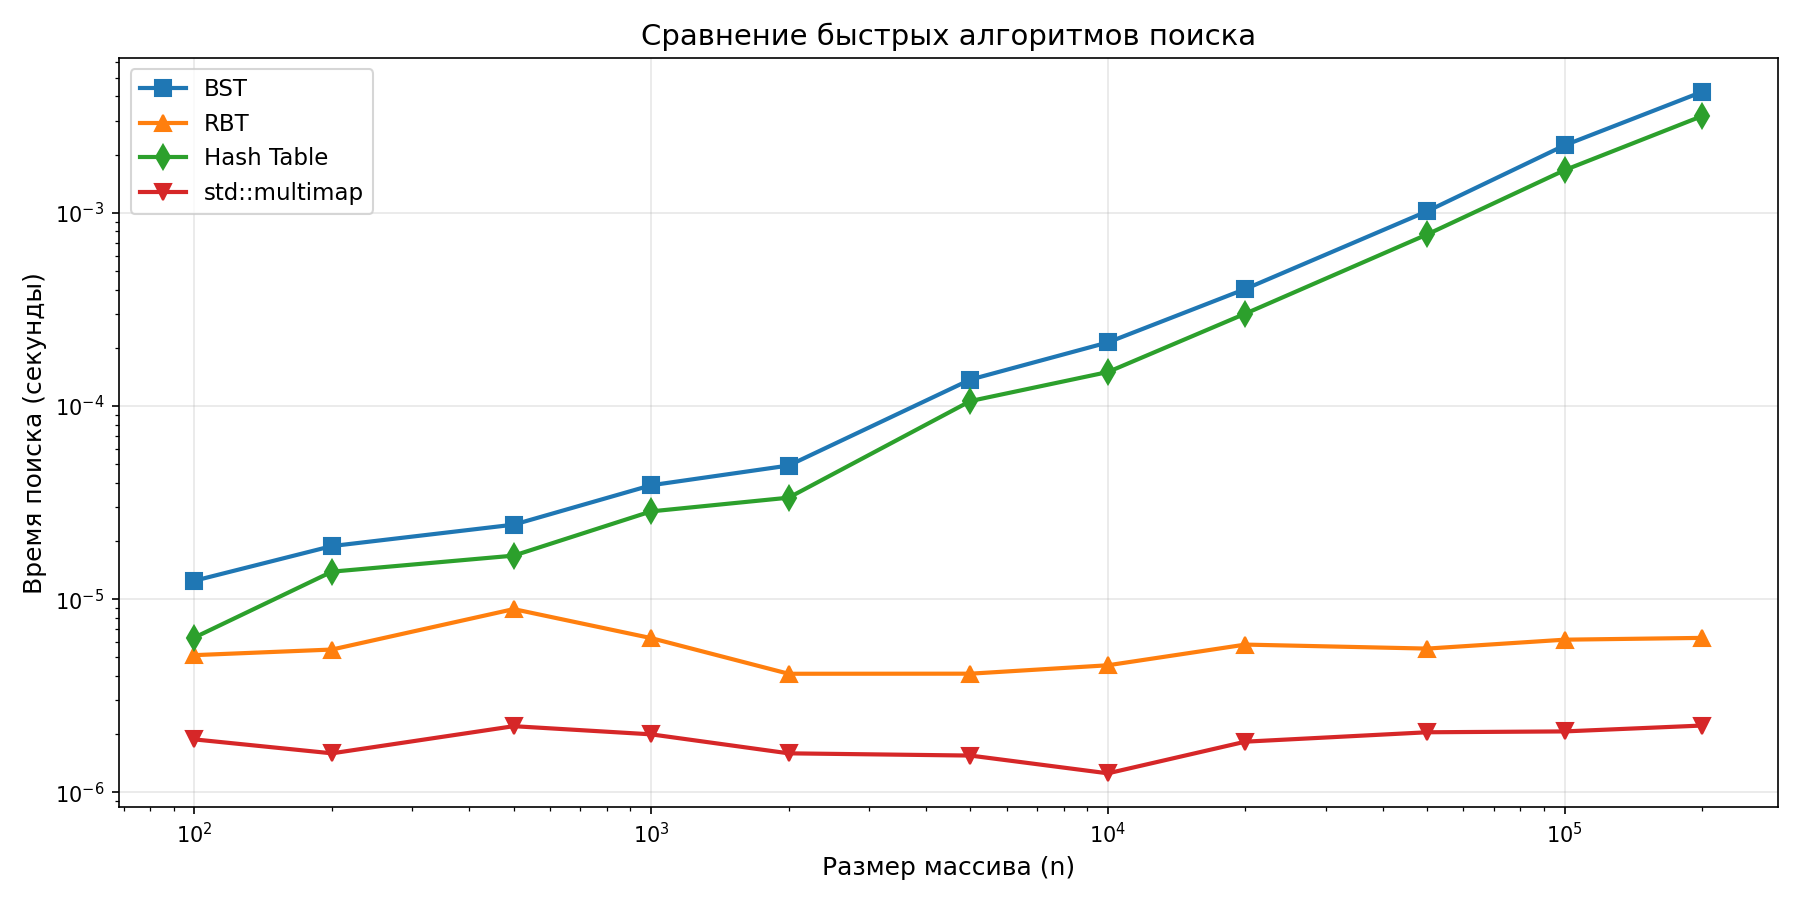
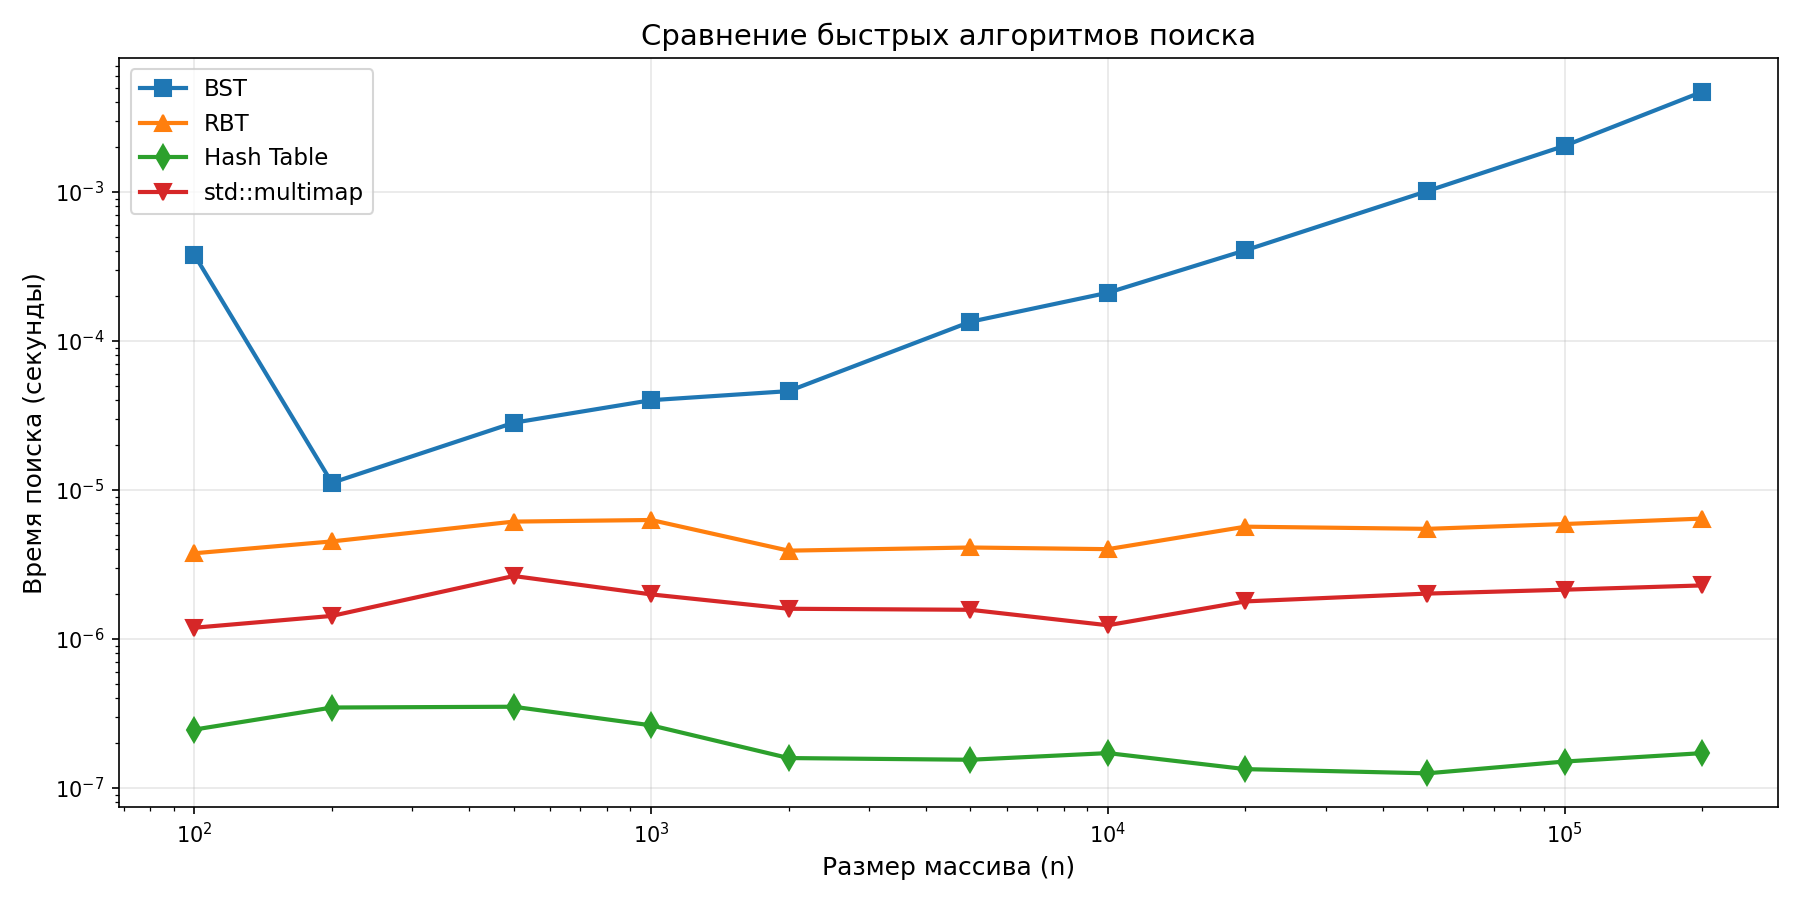
new fix 2.0

diff --git a/HashTable.cpp b/HashTable.cpp
@@ -4,7 +4,9 @@
  */
 
 #include "HashTable.h"
+#include <functional>
 
+// Хэш для строки (для поиска)
 size_t HashTable::hash(const std::string& key) const {
     size_t h = 0;
     for (char c : key) {
@@ -13,11 +15,32 @@ size_t HashTable::hash(const std::string& key) const {
     return h % table.size();
 }
 
+// Хэш для Teacher (для вставки) - комбинирует все поля
+size_t HashTable::hash(const Teacher& t) const {
+    size_t h = 0;
+    
+    // Комбинируем все поля преподавателя
+    for (char c : t.fullName) {
+        h = (h * 31) + static_cast<size_t>(c);
+    }
+    for (char c : t.faculty) {
+        h = (h * 31) + static_cast<size_t>(c);
+    }
+    for (char c : t.academicTitle) {
+        h = (h * 31) + static_cast<size_t>(c);
+    }
+    for (char c : t.academicDegree) {
+        h = (h * 31) + static_cast<size_t>(c);
+    }
+    
+    return h % table.size();
+}
+
 HashTable::HashTable(size_t size)
     : table(size), collisions(0), totalInserts(0) {}
 
 void HashTable::insert(const Teacher& t) {
-    size_t idx = hash(t.key());
+    size_t idx = hash(t);  // ← использует hash(const Teacher&)
     if (!table[idx].empty()) {
         collisions++;
     }
@@ -28,13 +51,17 @@ void HashTable::insert(const Teacher& t) {
 void HashTable::build(const std::vector<Teacher>& data) {
     collisions = 0;
     totalInserts = 0;
+    // Оптимальный размер таблицы: простое число, близкое к 2*n
+    size_t newSize = std::max(data.size() * 2, (size_t)10007);
+    table.clear();
+    table.resize(newSize);
     for (const auto& t : data) {
         insert(t);
     }
 }
 
 std::vector<Teacher> HashTable::search(const std::string& key) const {
-    size_t idx = hash(key);
+    size_t idx = hash(key);  // ← использует hash(const string&)
     std::vector<Teacher> results;
     for (const auto& t : table[idx]) {
         if (t.key() == key) {

diff --git a/HashTable.h b/HashTable.h
@@ -26,11 +26,20 @@ private:
     int totalInserts;  ///< Общее количество вставок
 
     /**
-     * @brief Полиномиальная хэш-функция
+     * @brief Полиномиальная хэш-функция для строкового ключа
      * @param key Строковый ключ
      * @return Хэш-значение в диапазоне [0, table.size()-1]
      */
     size_t hash(const std::string& key) const;
+    
+    /**
+     * @brief Полиномиальная хэш-функция для объекта Teacher
+     * @details Комбинирует все поля преподавателя:
+     *          ФИО, факультет, учёное звание, учёная степень
+     * @param t Объект Teacher
+     * @return Хэш-значение в диапазоне [0, table.size()-1]
+     */
+    size_t hash(const Teacher& t) const;
 
 public:
     /**
@@ -53,7 +62,7 @@ public:
     
     /**
      * @brief Поиск всех элементов с заданным ключом
-     * @param key Искомый ключ
+     * @param key Искомый ключ (ФИО)
      * @return Вектор найденных преподавателей
      */
     std::vector<Teacher> search(const std::string& key) const;

diff --git a/plot.py b/plot.py
@@ -3,14 +3,7 @@ import matplotlib.pyplot as plt
 import numpy as np
 import os
 
-# Поиск файла times.csv в разных местах
-possible_paths = [
-    'results/times.csv',
-    '../results/times.csv',
-    '../../results/times.csv',
-    '/Users/nnikich/Desktop/lab2/lab2/lab2/results/times.csv',
-    '/Users/nnikich/Desktop/lab2/results/times.csv',
-]
+possible_paths = ['results/times.csv']
 
 # Поиск в DerivedData
 import subprocess
@@ -77,5 +70,17 @@ plt.tight_layout()
 plt.savefig('results/fast_algorithms.png', dpi=150)
 plt.show()
 
+# График коллизий хэш-функции
+
+df_coll = pd.read_csv('results/collisions.csv')
+plt.figure(figsize=(10, 6))
+plt.plot(df_coll['Size'], df_coll['CollisionRate'], 'o-', color='red', linewidth=2, markersize=8)
+plt.xlabel('Размер массива (n)', fontsize=12)
+plt.ylabel('Частота коллизий', fontsize=12)
+plt.title('Зависимость коллизий хэш-функции от размера массива', fontsize=14)
+plt.grid(True, alpha=0.3)
+plt.tight_layout()
+plt.savefig('results/collisions_graph.png', dpi=150)
+plt.show()
 print("\nГрафики сохранены в results/")
 print(f"Исходные данные: {csv_path}")

diff --git a/main.cpp b/main.cpp
@@ -68,6 +68,21 @@ double measureLinearSearchTime(const vector<Teacher>& data, const string& key, i
     return duration<double>(end - start).count() / repeatCount;
 }
 
+size_t nextPrime(size_t n) {
+    if (n < 2) return 2;
+    while (true) {
+        bool isPrime = true;
+        for (size_t i = 2; i * i <= n; ++i) {
+            if (n % i == 0) {
+                isPrime = false;
+                break;
+            }
+        }
+        if (isPrime) return n;
+        ++n;
+    }
+}
+
 int main() {
     vector<size_t> sizes = {100, 200, 500, 1000, 2000, 5000, 10000, 20000, 50000, 100000, 200000};
     string dataDir = "../data";
@@ -107,7 +122,8 @@ int main() {
         double tRBT = measureSearchTime(rbt, searchKey);
         
         // 4. HashTable
-        HashTable ht(data.size() * 2);
+        size_t tableSize = nextPrime(data.size() * 2);
+        HashTable ht(tableSize);
         ht.build(data);
         double tHash = measureSearchTime(ht, searchKey);
         collOut << n << "," << ht.getCollisions() << ","

diff --git a/README.md b/README.md
@@ -11,23 +11,28 @@
 
 ### Сравнение времени поиска
 
-| Размер | Линейный | BST | RBT | Хэш-таблица | std::multimap |
-|--------|----------|-----|-----|-------------|---------------|
-| 100 | 1.41e-05 | 1.38e-05 | 6.58e-06 | 8.10e-06 | 2.38e-06 |
-| 500 | 3.71e-05 | 2.75e-05 | 8.04e-06 | 2.62e-05 | 2.64e-06 |
-| 1000 | 6.99e-05 | 4.34e-05 | 6.05e-06 | 2.82e-05 | 2.02e-06 |
-| 5000 | 1.82e-04 | 1.31e-04 | 4.13e-06 | 1.01e-04 | 1.41e-06 |
-| 10000 | 2.45e-04 | 2.07e-04 | 4.00e-06 | 1.48e-04 | 1.22e-06 |
-| 50000 | 1.45e-03 | 1.02e-03 | 5.37e-06 | 7.68e-04 | 2.05e-06 |
-| 100000 | 3.20e-03 | 2.06e-03 | 5.73e-06 | 1.57e-03 | 2.21e-06 |
+| Size | Linear | BST | RBT | Hash | std::multimap |
+|------|--------|-----|-----|------|---------------|
+| 100 | 1.41e-05 | 3.78e-04 | 3.75e-06 | 2.46e-07 | 1.19e-06 |
+| 200 | 1.00e-05 | 1.12e-05 | 4.51e-06 | 3.46e-07 | 1.43e-06 |
+| 500 | 4.47e-05 | 2.82e-05 | 6.13e-06 | 3.50e-07 | 2.64e-06 |
+| 1 000 | 5.89e-05 | 4.00e-05 | 6.28e-06 | 2.63e-07 | 1.99e-06 |
+| 2 000 | 1.03e-04 | 4.60e-05 | 3.91e-06 | 1.58e-07 | 1.59e-06 |
+| 5 000 | 1.43e-04 | 1.35e-04 | 4.10e-06 | 1.54e-07 | 1.57e-06 |
+| 10 000 | 2.43e-04 | 2.11e-04 | 4.00e-06 | 1.71e-07 | 1.23e-06 |
+| 20 000 | 5.41e-04 | 4.06e-04 | 5.66e-06 | 1.33e-07 | 1.78e-06 |
+| 50 000 | 1.49e-03 | 1.01e-03 | 5.48e-06 | 1.25e-07 | 2.01e-06 |
+| 100 000 | 2.93e-03 | 2.04e-03 | 5.90e-06 | 1.50e-07 | 2.14e-06 |
+| 200 000 | 5.93e-03 | 4.71e-03 | 6.42e-06 | 1.71e-07 | 2.28e-06 |
+
 
 ### Графики
 
-![Сравнение алгоритмов](lab2/results/search_comparison.png)
+![Сравнение алгоритмов](results/search_comparison.png)
 
-![Быстрые алгоритмы](lab2/results/fast_algorithms.png)
+![Быстрые алгоритмы](results/fast_algorithms.png)
 
-![Коллизии хэш-функции](lab2/results/collisions_graph.png)
+![Коллизии хэш-функции](results/collisions_graph.png)
 
 
 ### Сборка
